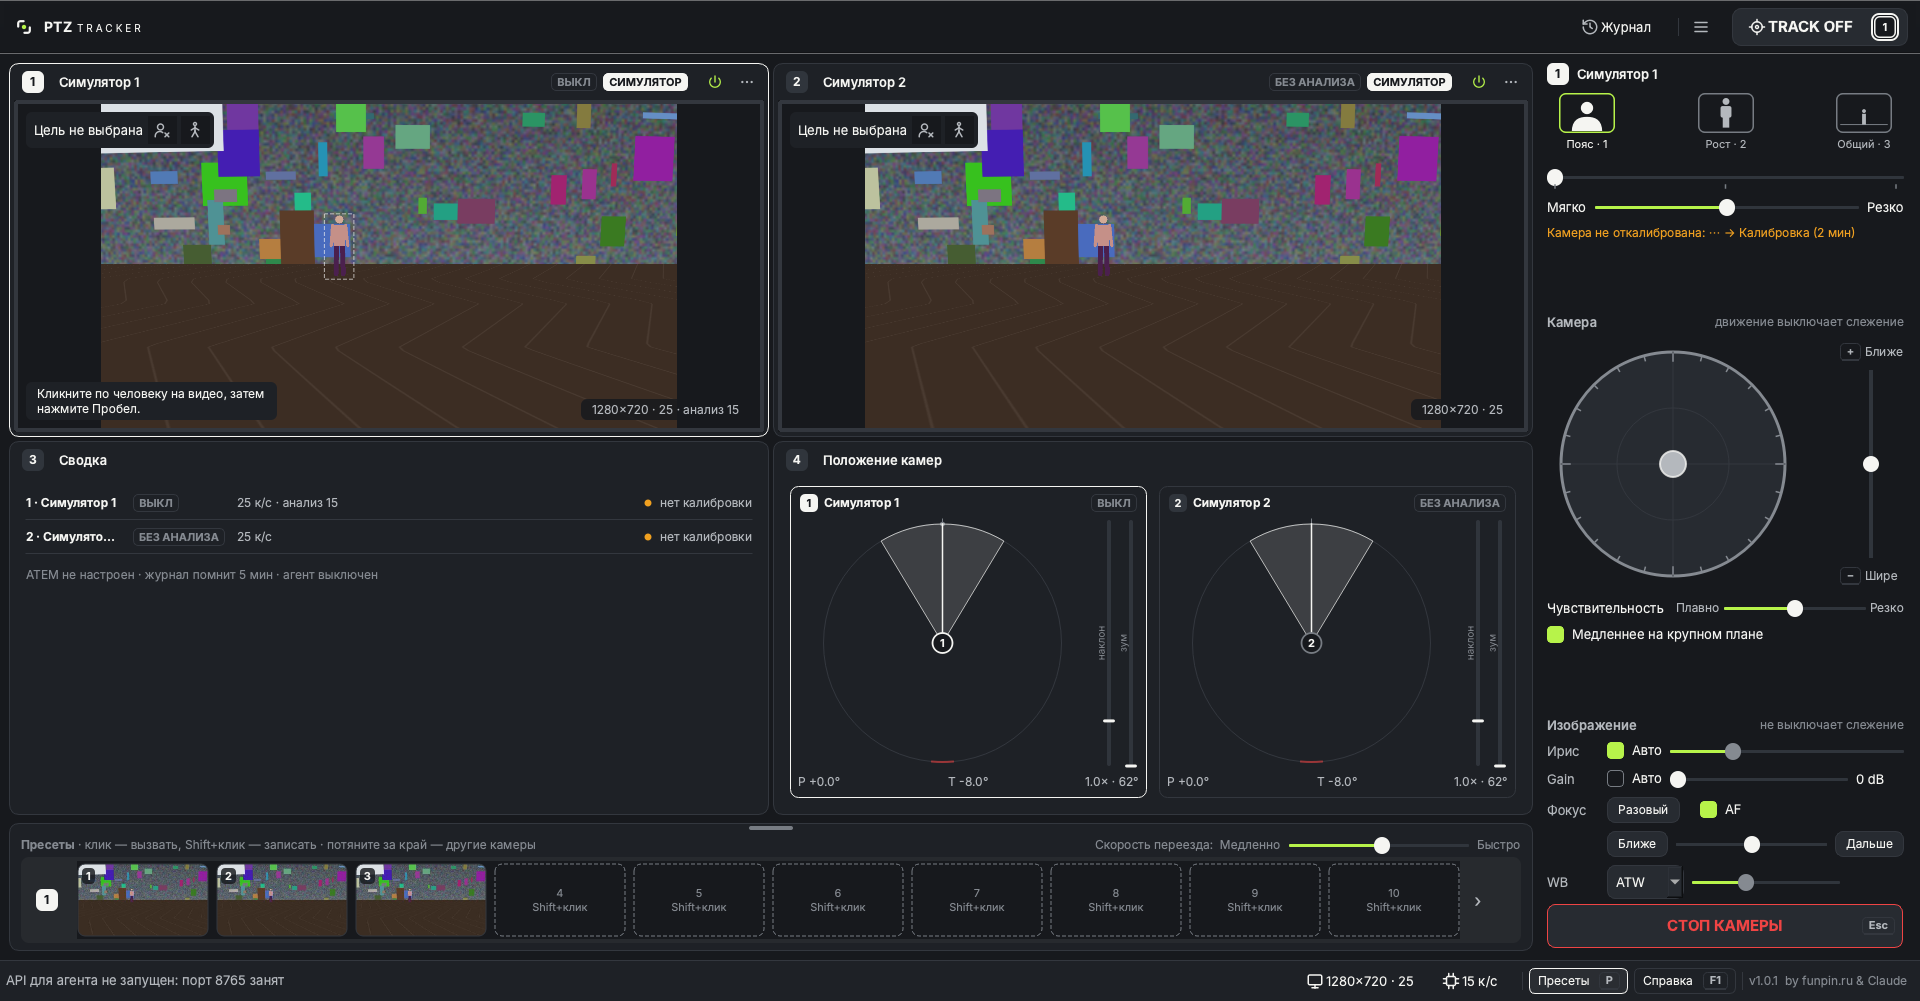
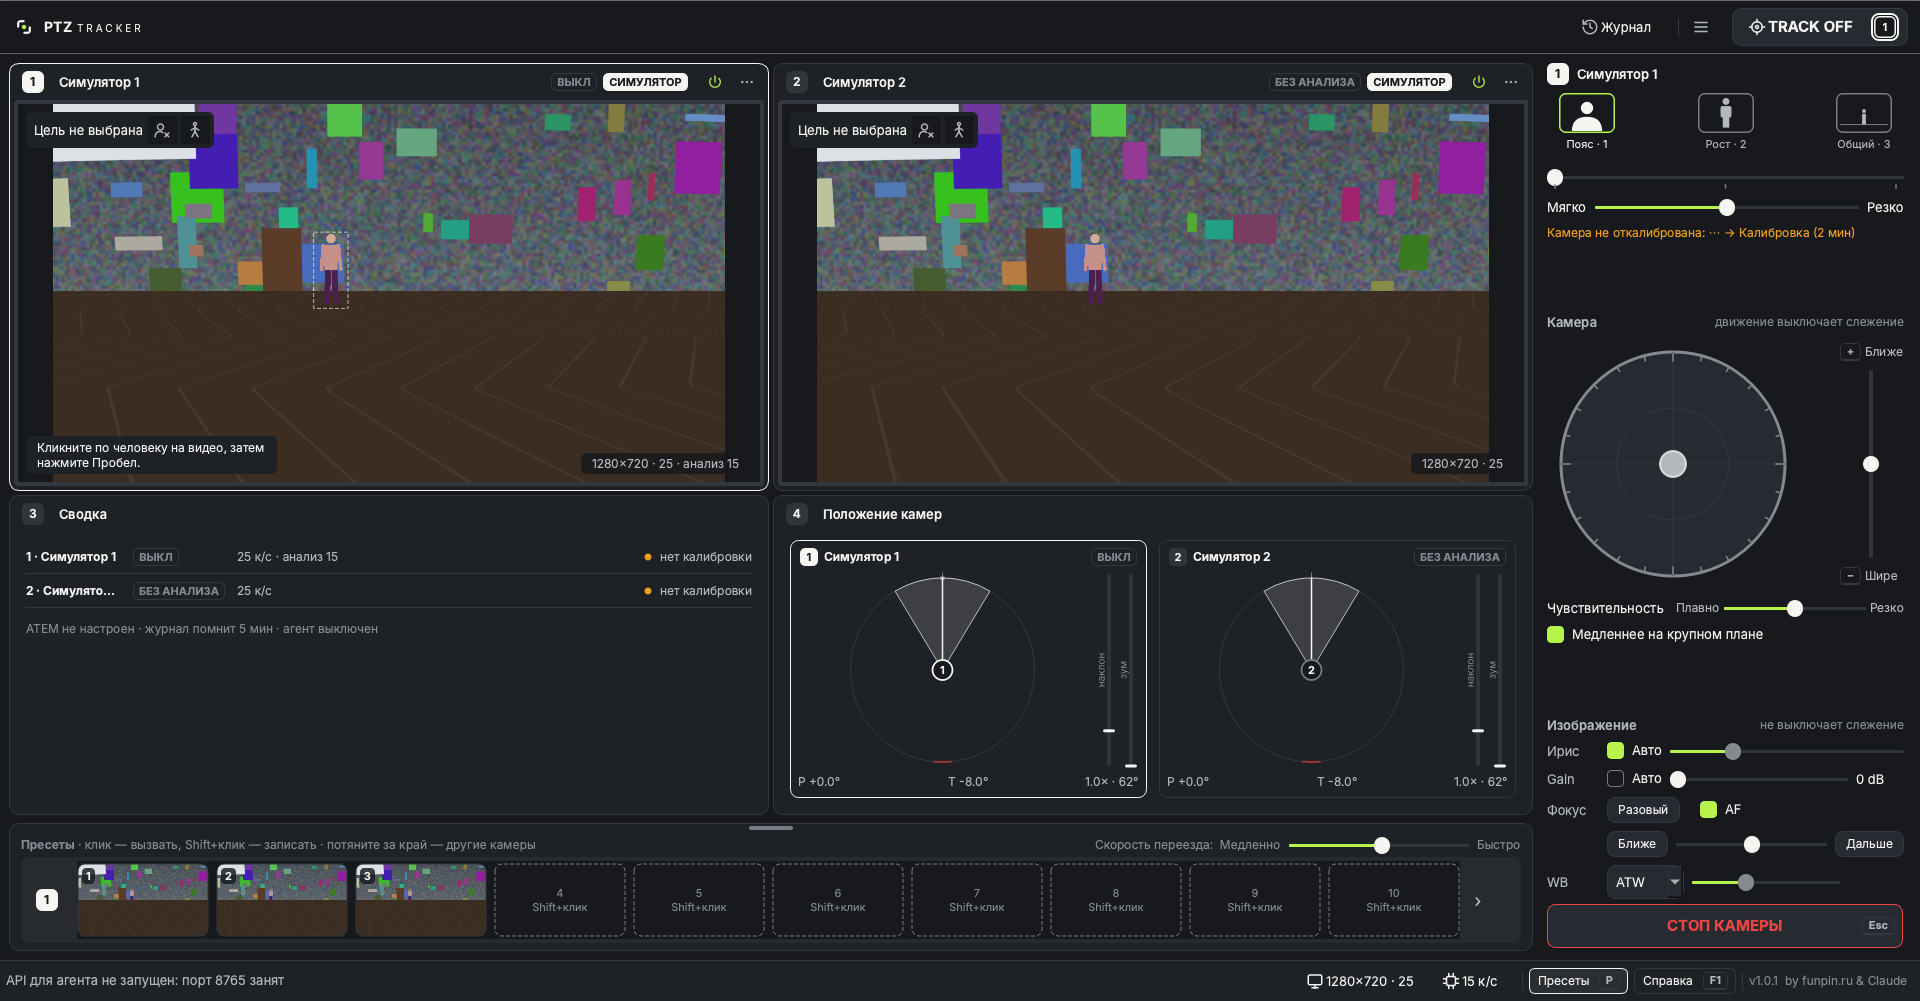
feat(ui): top row fits the 16:9 frame when the bottom row holds service cells; equal rows with cameras below

Changed region(s): [[0.0, 0.0929, 0.7812, 0.6813], [0.3438, 0.5884, 0.375, 0.6194], [0.1562, 0.6194, 0.1875, 0.6503]]

diff --git a/docs/design/mockups/bottom-row.html b/docs/design/mockups/bottom-row.html
@@ -1,0 +1,35 @@
+<!DOCTYPE html><html lang="ru"><head><meta charset="utf-8"><title>Нижний ряд клеток</title>
+<style>
+body{margin:0;background:#0E0F12;color:#F5F5F2;font-family:Inter,system-ui,sans-serif;padding:22px 26px 60px}
+h1{font-size:22px;margin:0 0 6px}h2{font-size:16px;margin:26px 0 8px;color:#B4B8BD}
+p{color:#B4B8BD;font-size:14px;line-height:1.55;max-width:1150px;margin:0 0 10px}
+b{color:#F5F5F2}.lime{color:#B7F34A}
+.pair{display:grid;grid-template-columns:1fr 1fr;gap:18px}
+figure{margin:0}figure img{width:100%;border:1px solid #33373E;border-radius:8px;display:block}
+figcaption{font-size:13px;color:#B4B8BD;margin-top:6px}figcaption b{color:#F5F5F2}
+.choice{display:inline-flex;margin:16px 8px 0 0;padding:8px 14px;border-radius:999px;border:1px solid #33373E;cursor:pointer;color:#B4B8BD;font-size:13px}
+.choice.selected{border-color:#B7F34A;color:#B7F34A}
+</style></head><body>
+<h1>Нижний ряд ниже — верхний ровно по кадру</h1>
+<p>Картинку камеры ограничивает <b>ширина</b> клетки, а не высота. Поэтому верхний ряд выгодно делать ровно такой высоты, чтобы кадр 16:9 встал <b>от края до края без чёрных полос</b>. Всё, что остаётся, получает нижний ряд (Сводка, Положение камер).</p>
+<p>Видео становится больше примерно на 7% по ширине. Чёрные полосы по бокам исчезают, а «Положение камер» остаётся читаемым. <span class="lime">Так только когда внизу нет камер.</span> Если в клетках 3–4 стоят камеры, все четыре клетки снова одинаковые.</p>
+
+<h2>Windows 1920×1080 (100%), развёрнуто</h2>
+<div class="pair">
+<figure><img src="rows-a1920.png"><figcaption><b>Сейчас:</b> ряды поровну, у кадра чёрные полосы по бокам (картинка 696 px шириной)</figcaption></figure>
+<figure><img src="rows-f1920.png"><figcaption><b>Предлагаю:</b> верхний ряд по кадру, картинка 742 px от края до края, полос нет</figcaption></figure>
+</div>
+
+<h2>Окно 1640×850</h2>
+<div class="pair">
+<figure><img src="rows-a1640.png"><figcaption><b>Сейчас</b></figcaption></figure>
+<figure><img src="rows-f1640.png"><figcaption><b>Предлагаю</b></figcaption></figure>
+</div>
+
+<h2>Почему не ниже ещё</h2>
+<div class="pair">
+<figure><img src="rows-b1920.png"><figcaption>Если нижний ряд ужать сильнее (60/40), кадр больше <b>не растёт</b>: он уже упёрся в ширину, появляются полосы сверху и снизу. Место просто пропадает.</figcaption></figure>
+<div></div>
+</div>
+<div><span class="choice" data-choice="fit">Да, верхний ряд по кадру</span><span class="choice" data-choice="no">Оставить как есть</span></div>
+</body></html>

diff --git a/src/ptztracker/ui/main_window.py b/src/ptztracker/ui/main_window.py
@@ -149,6 +149,7 @@ def _clamp1(v: float) -> float:
     return max(-1.0, min(1.0, v))
 
 
+QWIDGETSIZE_MAX = (1 << 24) - 1  # «без предела» по высоте, как в Qt
 SIDE_FIT_RESERVE = 80  # окно 1640×850 на Mac: ~70 px свободно; стик растёт только сверх этого (запас под шрифт Windows)
 
 
@@ -1601,6 +1602,7 @@ class MainWindow(QMainWindow):
         if no_cams and not self._welcome_on:
             self.cells[0].set_service(self.welcome)
             self._welcome_on = True
+        QTimer.singleShot(0, self._fit_rows)
         where = {slot: TITLES[k] for k, slot in want.items() if slot is not None}
         for i, cell in enumerate(self.cells):
             cell.set_empty_title(where.get(i, "нет камеры"))
@@ -1784,9 +1786,29 @@ class MainWindow(QMainWindow):
         spare = free + (joy - STICK_MIN) - SIDE_FIT_RESERVE  # свободно при самом маленьком стике, сверх запаса
         self.controls.set_stick_size(STICK_MIN + max(0, int(spare * 0.6)))
 
+    def _fit_rows(self) -> None:
+        """Внизу нет камер — верхний ряд ровно по кадру 16:9 (картинку ограничивает ширина клетки, лишняя высота
+        дала бы только чёрные полосы), остальное — служебным клеткам. С камерой внизу ряды снова поровну."""
+        gl = self.grid_host.layout()
+        top = self.cells[0]
+        service_below = self.grid.cells[2] is None and self.grid.cells[3] is None
+        if not service_below or self.grid.cells[0] is None:
+            gl.setRowStretch(0, 1)
+            for c in self.cells[:2]:
+                c.setMaximumHeight(QWIDGETSIZE_MAX)
+            return
+        vf = top.video_frame
+        b = vf.BORDER
+        want = top.height() - vf.height() + round((vf.width() - 2 * b) * 9 / 16) + 2 * b
+        # потолок, а не минимум: окно можно ужать, а при нехватке места (пресеты во весь экран) ряд просто ниже
+        gl.setRowStretch(0, 2)
+        for c in self.cells[:2]:
+            c.setMaximumHeight(max(top.minimumSizeHint().height(), want))
+
     def resizeEvent(self, e):  # noqa: N802
         super().resizeEvent(e)
         QTimer.singleShot(0, self._fit_side)
+        QTimer.singleShot(0, self._fit_rows)
         self._fit_top_bar()
 
     def _remember_rtsp_url(self, s: CameraSession) -> None:

diff --git a/tests/ui/test_service_cell.py b/tests/ui/test_service_cell.py
@@ -174,3 +174,38 @@ def test_target_label_short(qtbot, tmp_path):
     w._update_status()
     assert w.cells[0].target_label.text() == "Цель не выбрана"
     w.close()
+
+
+def _picture_h(cell) -> int:
+    vf = cell.video_frame
+    return vf.height() - 2 * vf.BORDER
+
+
+def _picture_w(cell) -> int:
+    vf = cell.video_frame
+    return vf.width() - 2 * vf.BORDER
+
+
+def test_top_row_fits_frame_when_bottom_is_service(qtbot, tmp_path):
+    """Внизу нет камер: верхний ряд ровно по кадру 16:9 (без чёрных полос), остальное — служебным клеткам."""
+    w = make(qtbot, tmp_path)
+    for size in ((1640, 850), (1920, 1001)):
+        w.resize(*size)
+        qtbot.wait(300)
+        top = w.cells[0]
+        assert abs(_picture_h(top) - _picture_w(top) * 9 / 16) <= 2, size
+        assert w.cells[2].height() > top.height() * 0.6, size  # «Положение камер» остаётся читаемым
+    w.close()
+
+
+def test_rows_equal_with_cameras_below(qtbot, tmp_path):
+    w = make(qtbot, tmp_path)
+    w.resize(1640, 850)
+    w.set_cell_camera(2, "sim3")
+    qtbot.wait(300)
+    assert abs(w.cells[0].height() - w.cells[2].height()) <= 1
+    w.set_cell_camera(2, None)
+    qtbot.wait(300)
+    top = w.cells[0]
+    assert abs(_picture_h(top) - _picture_w(top) * 9 / 16) <= 2
+    w.close()

diff --git a/CHANGELOG.md b/CHANGELOG.md
@@ -25,6 +25,7 @@
 - Флажок **«Медленнее на крупном плане»** (включён): на теле тот же наклон стика поворачивает камеру медленнее, чтобы кадр не улетал. Мышь, стрелки и геймпады; слежение это не меняет.
 
 ### Изменено
+- Когда внизу сетки нет камер (там «Сводка» и «Положение камер»), верхний ряд подгоняется ровно под кадр 16:9: видео камер крупнее и без чёрных полос по бокам. С камерами в клетках 3–4 все клетки снова одинаковые.
 - **«Кадр» — три рисунка: пояс, рост, общий** и ползунок под ними; клавиши **1, 2, 3**. Пояс слева/справа временно убран из кнопок — вернётся перетаскиванием зоны прямо на видео в версии 1.2.
 - Меню ☰ — только общее (камеры, геймпады, ATEM, агент, журнал, обновления, справка). Калибровка, диагностика, поток и режим ожидания — в ⋯ своей камеры.
 - Внизу вместо подписей клавиш — кнопки «Пресеты» и «Справка»; все клавиши — в справке F1.
